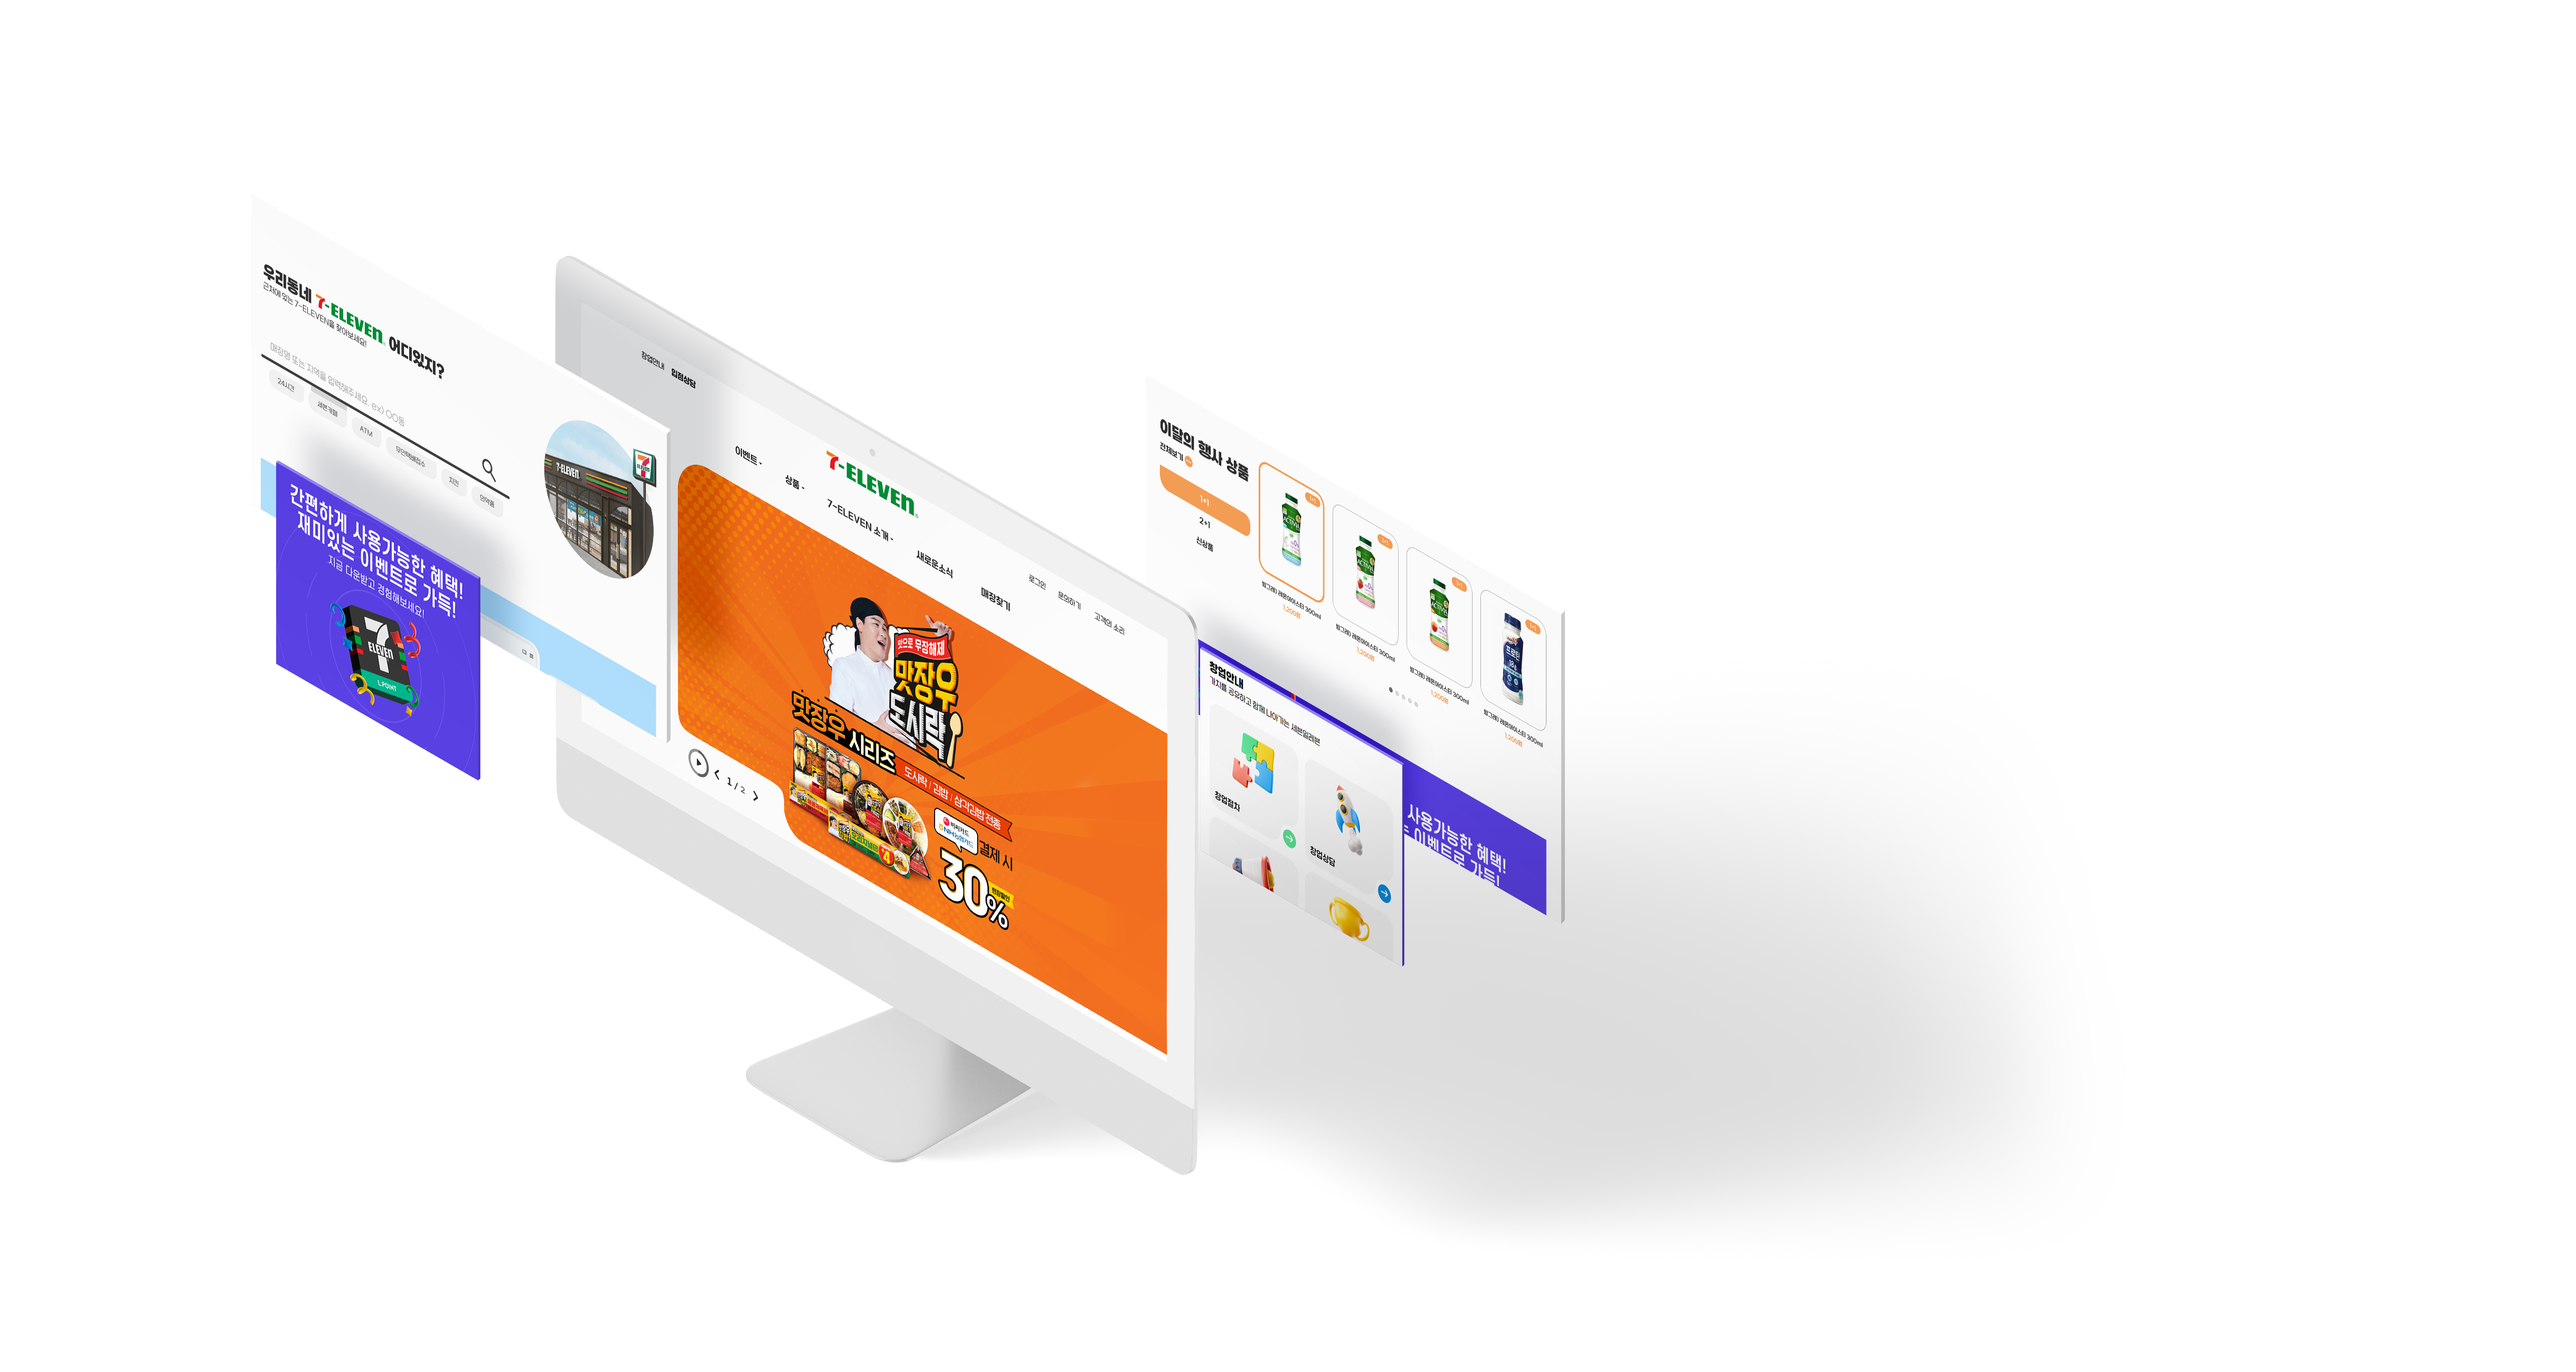
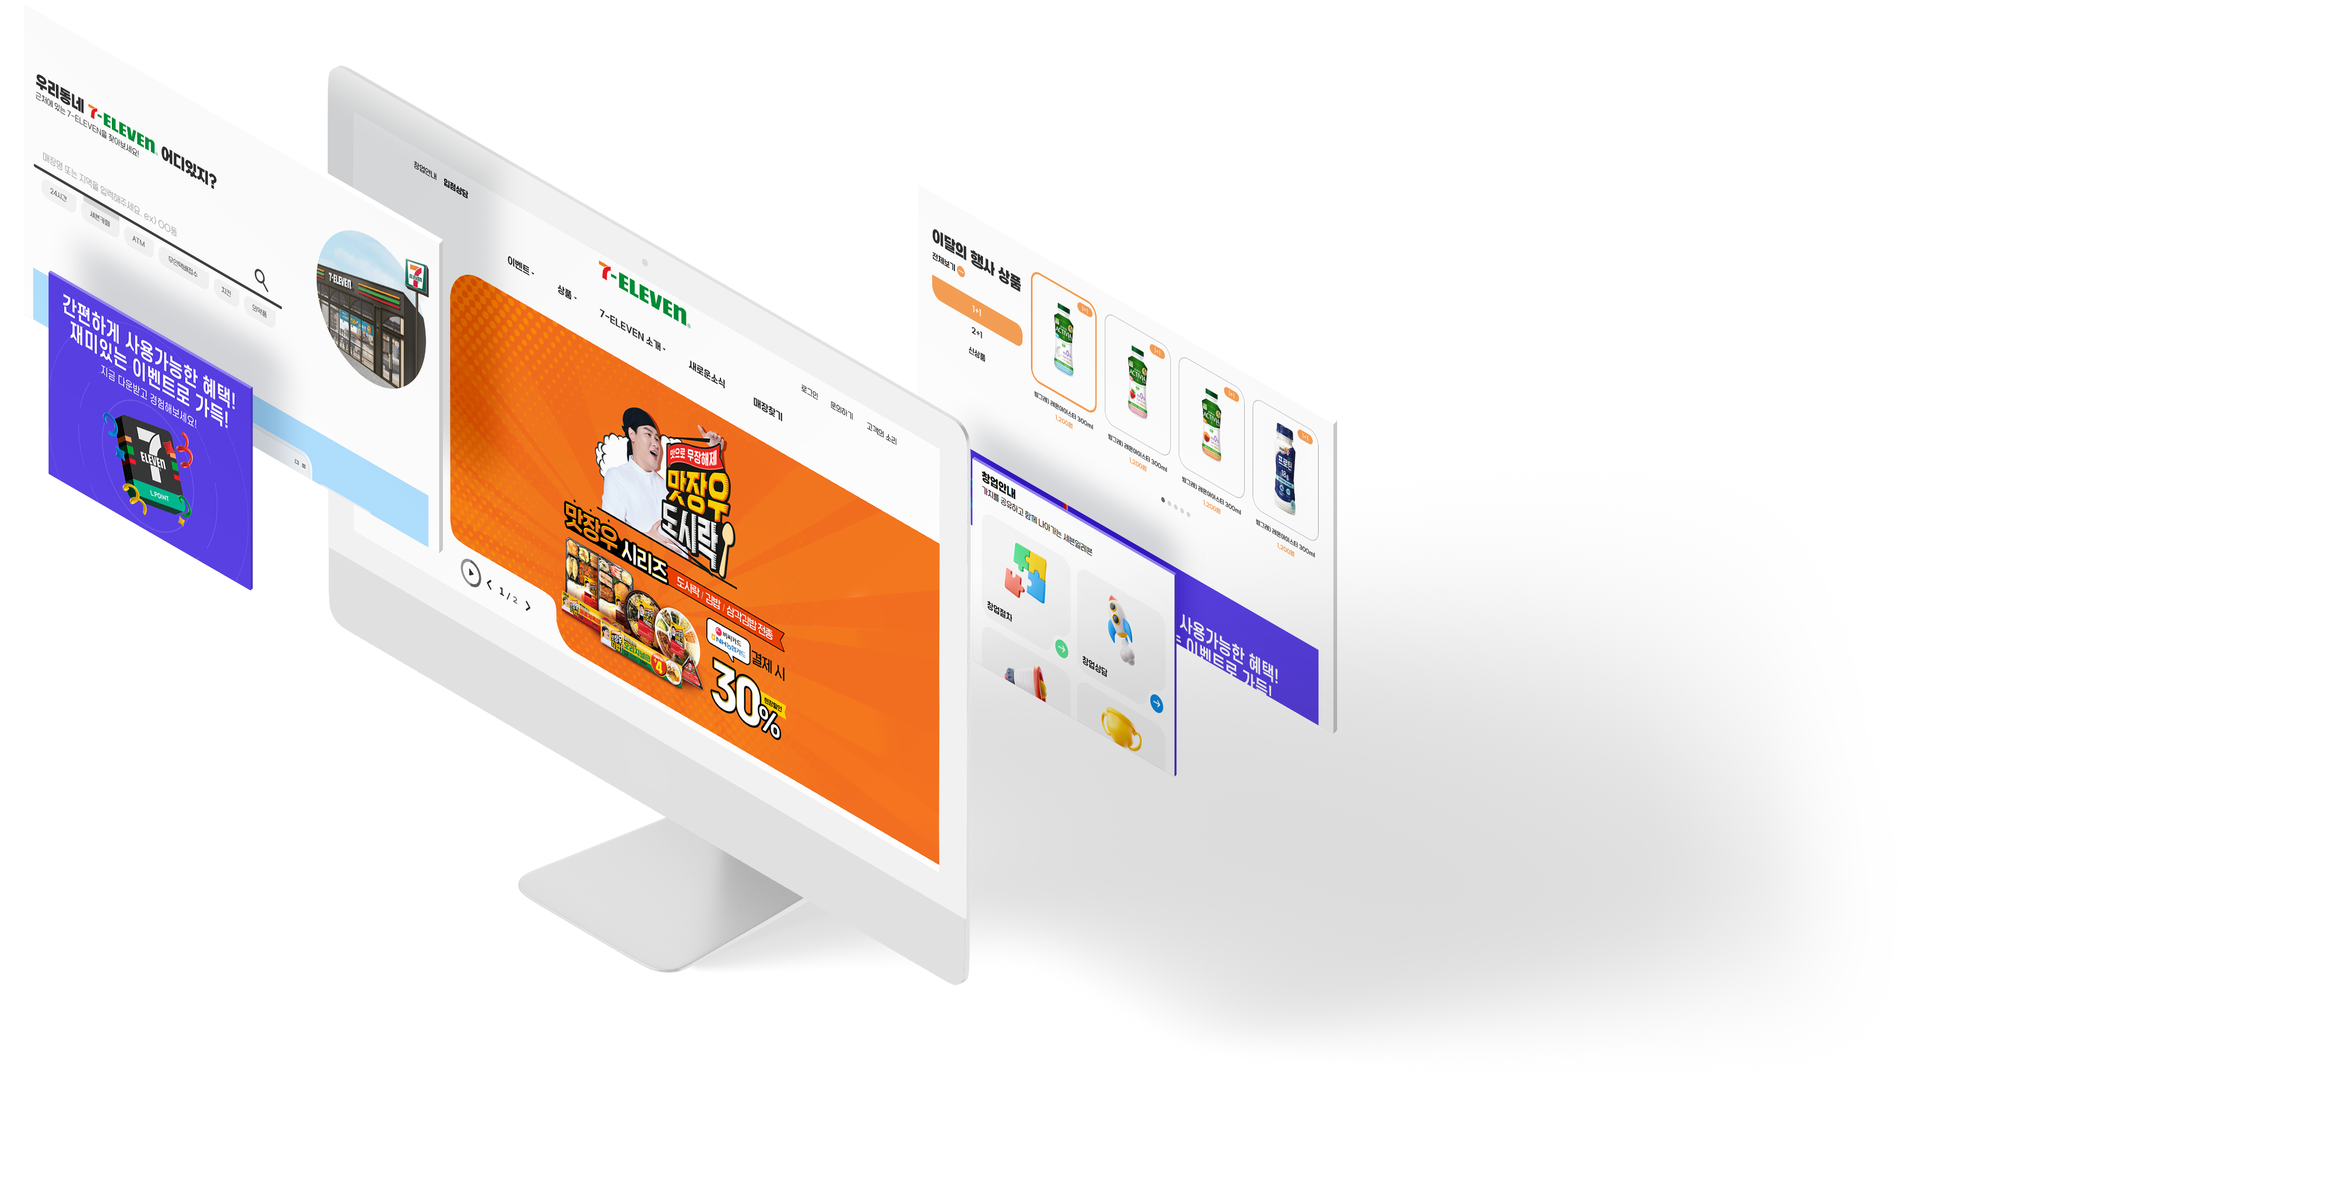
.

diff --git a/css/main.css b/css/main.css
@@ -1211,23 +1211,95 @@ header ul li.on a {
     display: flex;
     justify-content: space-around;
     margin: 5vh 0;
-    align-items: flex-start;
+    align-items: stretch;
 }
 .project3 .eleven .eleven_txt {
-    margin-right: 20px;
+    margin: 0 3vw 0 10vw;
 }
 .project3 .eleven .eleven_txt h2 {
     font-size: 70px;
     color: #008c37;;
     font-weight: 700;
-    margin-bottom: 50px;
-    margin-top: 20px;
+    margin-bottom: 30px;
     line-height: 1;
 }
-.project3 .eleven .eleven_txt > strong {
-    font-size: 25px;
+.project3 .eleven .eleven_txt .eleven_btn {
+    display: flex;
+}
+.menu {
+    display: flex;
+}
+.menu li {
+    margin-right: 15px;
+}
+.menu a {
+    color: #FFF;
+    font-size: 15px;
+    font-weight: 500;
+    padding: 10px 15px;
+    position: relative;
     display: block;
-    margin: 40px 0 20px 0;
+    text-decoration: none;
+    text-transform: uppercase;
+    background: #555;
+    border-radius: 0 20px 20px 20px;
+}
+.menu a:before {
+    content: "";
+    position: absolute;
+    top: -15px;
+    left: -15px;
+    bottom: -15px;
+    right: -15px;
+    background: #555;
+    border-radius: 0 20px 20px 20px;
+    padding: 10px 15px;
+    z-index: -1;
+    opacity: 1;
+    transform: scale3d(0.8, 0.5, 1);
+}
+.menu .gr a:hover {
+    background-color: #46aa6e;
+}
+.menu .or a:hover {
+    background-color: #f2761d;
+}
+.menu a:hover::before {
+    animation: anim-moema-2 0.3s 0.3s forwards;
+}
+.menu .gr a:hover {
+    transition: background-color 0.1s 0.3s, color 0.1s 0.3s;
+    background-color: #46aa6e;
+    animation: anim-moema-1 0.3s forwards;
+}
+.menu .or a:hover {
+    transition: background-color 0.1s 0.3s, color 0.1s 0.3s;
+    background-color: #f2761d;
+    animation: anim-moema-1 0.3s forwards;
+}
+  
+@-webkit-keyframes anim-moema-2 {
+    to {opacity: 0; transform: scale3d(1, 1, 1);}
+}
+@keyframes anim-moema-2 {
+    to {opacity: 0; transform: scale3d(1, 1, 1);}
+}
+@-webkit-keyframes anim-moema-1 {
+    60% {transform: scale3d(0.8, 0.8, 1);}
+    85% {transform: scale3d(1.1, 1.1, 1);}
+    100% {transform: scale3d(1, 1, 1);}
+}
+@keyframes anim-moema-1 {
+    60% {transform: scale3d(0.8, 0.8, 1);}
+    85% {transform: scale3d(1.1, 1.1, 1);}
+    100% {transform: scale3d(1, 1, 1);}
+}
+  
+.project3 .eleven .eleven_txt > strong {
+    font-size: 23px;
+    display: block;
+    margin: 45px 0 10px 0;
+    color: #777;
 }
 .project3 .eleven .eleven_txt > span {
     font-size: 25px;
@@ -1236,11 +1308,13 @@ header ul li.on a {
     line-height: 2;
 }
 .project3 .eleven .eleven_txt > p {
-    font-size: 20px;
+    font-size: 18px;
     margin-bottom: 30px;
+    width: 30vw;
 }
 .project3 .eleven .eleven_txt .box {
     display: flex;
+    align-items: baseline;
     line-height: 2.5;
 }
 .project3 .eleven .eleven_txt .box span {
@@ -1252,11 +1326,11 @@ header ul li.on a {
 }
 .eleven .eleven_mockup a {
     display: block;
-    width: 60vw;
-    margin-left: 10vw;
+    width: 70vw;
 }
 .eleven .eleven_mockup a img{
     width: 100%;
+    margin-top: 30px;
 }
 
 .end {

diff --git a/index.html b/index.html
@@ -203,6 +203,16 @@
                                 <div class="eleven">
                                     <div class="eleven_txt">
                                         <h2>세븐일레븐</h2>
+                                          <!-- start -->
+                                        <div class="back color-6">
+                                            <div class="columns">
+                                            <ul class="menu">
+                                                <li class="gr"><a href="https://www.7-eleven.co.kr/">기존 홈페이지 보기</a></li>
+                                                <li class="or"><a href="eleven2/index.html">리디자인 홈페이지 보기</a></li>
+                                            </ul>
+                                            </div>
+                                        </div>
+                                        <!-- // end -->
                                         <strong>About</strong>
                                         <span>세븐일레븐 반응형 웹 디자인</span>
                                         <p>사용자가 보기 편하도록 화면 크기에 따라 이미지와<br>
